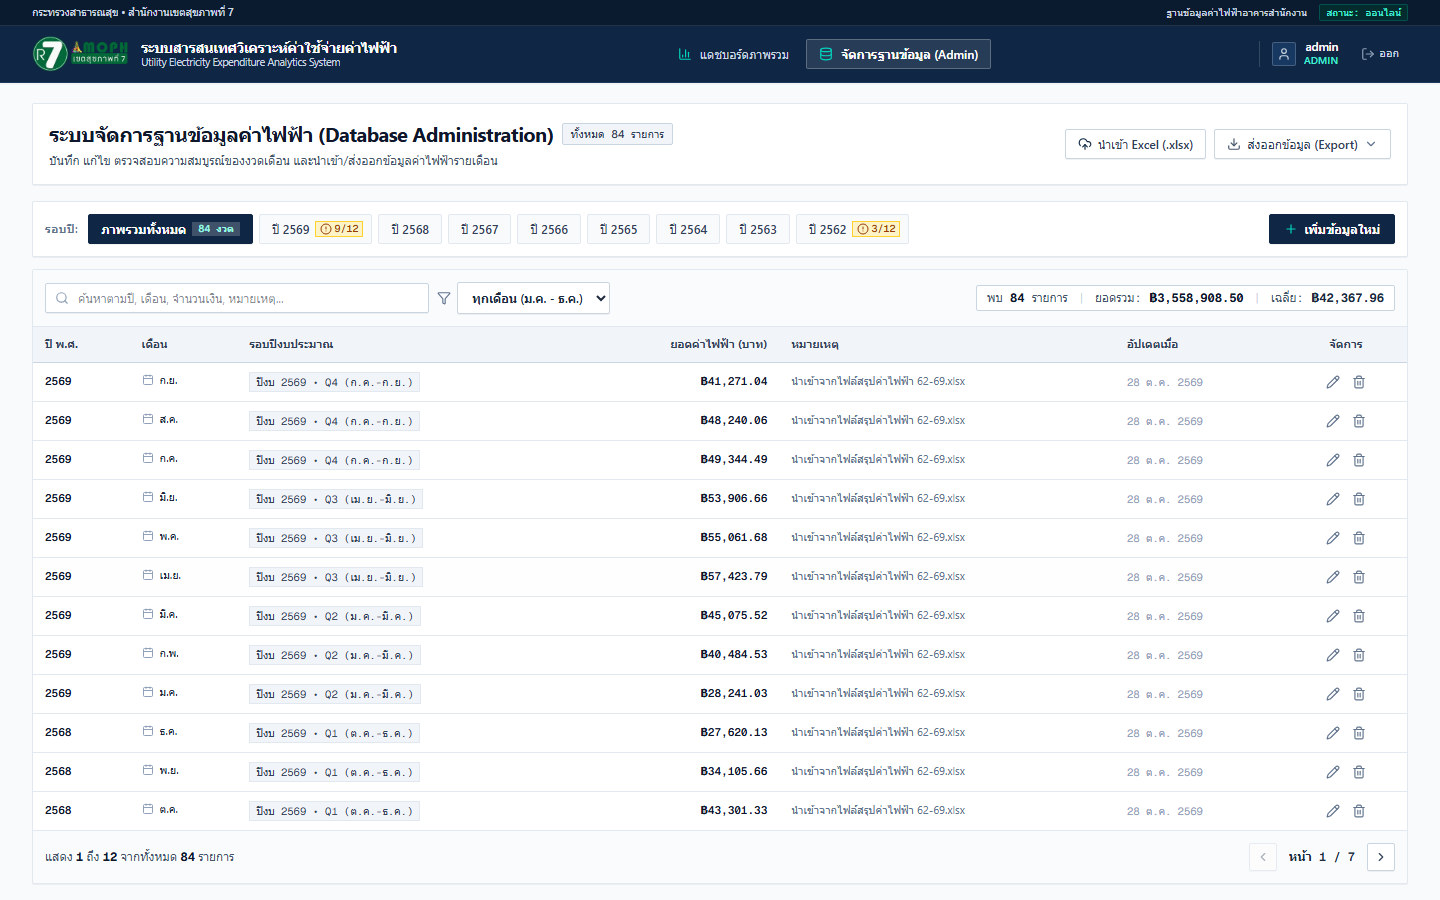
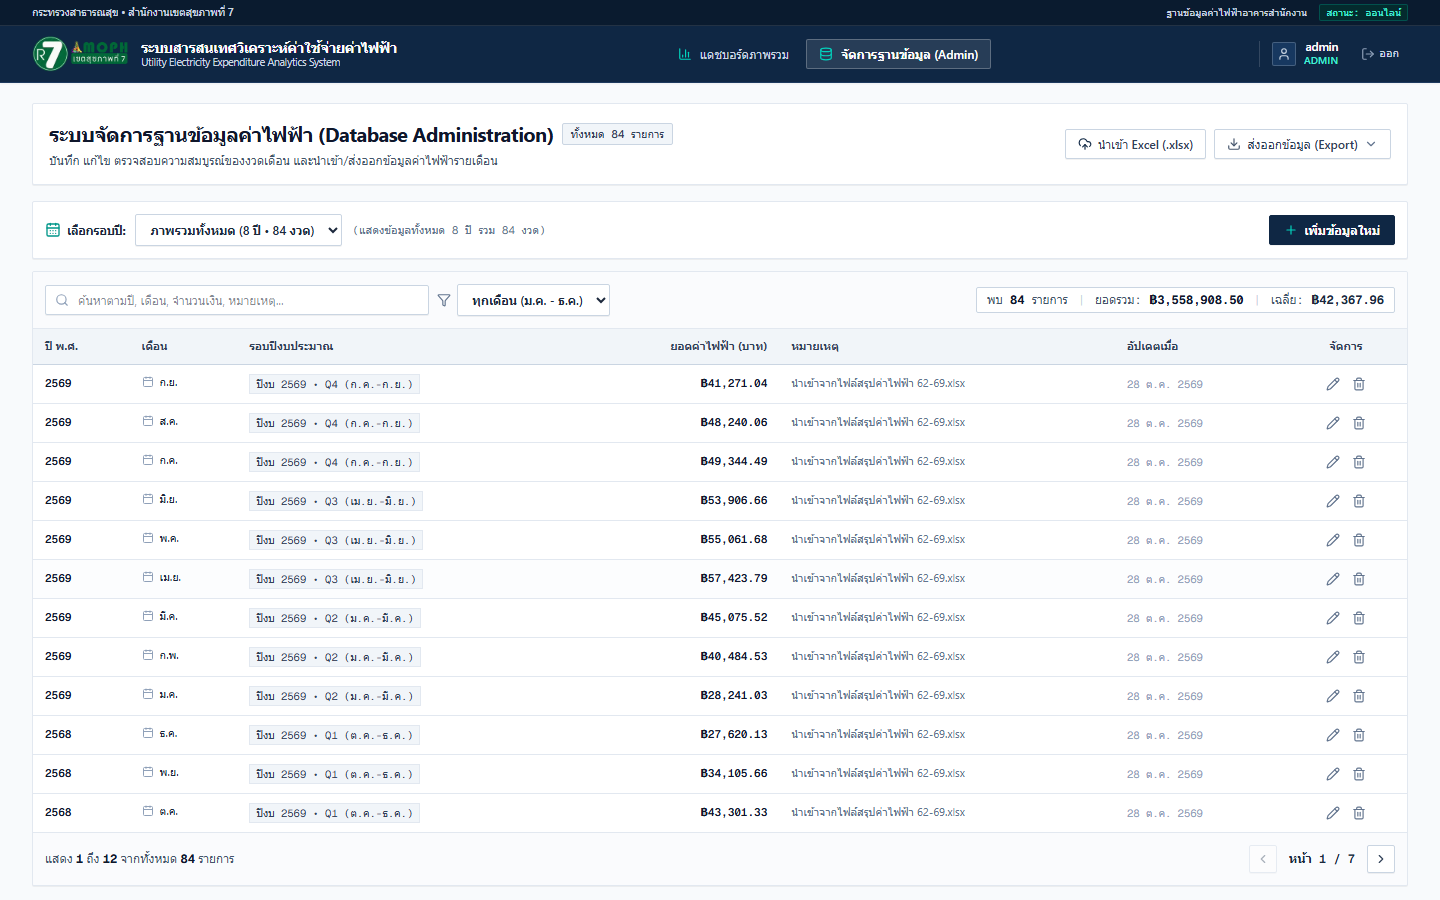
feat(admin): replace year pills with unified dropdown matching dashboard style

diff --git a/components/admin/records/records-year-pills.tsx b/components/admin/records/records-year-pills.tsx
@@ -1,216 +1,125 @@
 'use client';
 
-import { RefObject } from 'react';
-import { AlertCircle, Plus, X } from 'lucide-react';
+import { CalendarDays, Plus, RotateCcw, AlertCircle, Filter } from 'lucide-react';
 import { THAI_MONTHS } from '@/lib/validations/record';
-import { getFiscalYear } from '@/lib/utils/math';
 import type { YearCompletenessInfo } from './records-types';
 
 interface RecordsYearPillsProps {
-  pillsRef: RefObject<HTMLDivElement | null>;
+  pillsRef?: React.RefObject<HTMLDivElement | null>;
   totalRecordsCount: number;
   distinctYears: number[];
   selectedYear: string;
   onSelectYear: (year: string) => void;
   yearCompletenessMap: Map<number, YearCompletenessInfo>;
-  dismissedYears: number[];
-  activePopoverYear: number | null;
-  setActivePopoverYear: (year: number | null) => void;
-  onDismiss: (year: number) => void;
-  onRestoreDismissed: () => void;
+  dismissedYears?: number[];
+  activePopoverYear?: number | null;
+  setActivePopoverYear?: (year: number | null) => void;
+  onDismiss?: (year: number) => void;
+  onRestoreDismissed?: () => void;
   onOpenCreate: (year?: number, month?: number) => void;
 }
 
 export function RecordsYearPills({
-  pillsRef,
   totalRecordsCount,
   distinctYears,
   selectedYear,
   onSelectYear,
   yearCompletenessMap,
-  dismissedYears,
-  activePopoverYear,
-  setActivePopoverYear,
-  onDismiss,
-  onRestoreDismissed,
   onOpenCreate,
 }: RecordsYearPillsProps) {
+  const selectedInfo = selectedYear !== 'all' ? yearCompletenessMap.get(Number(selectedYear)) : null;
+  const isIncomplete = selectedInfo && !selectedInfo.isComplete;
+
   return (
-    <div
-      ref={pillsRef}
-      className="bg-white border border-slate-200 rounded-xs p-3 shadow-2xs flex flex-wrap items-center justify-between gap-3 relative overflow-visible"
-    >
-      <div className="flex items-center gap-1.5 flex-wrap">
-        <span className="text-[11px] font-semibold text-slate-500 uppercase tracking-wider mr-1 shrink-0">
-          รอบปี:
-        </span>
+    <div className="bg-white border border-slate-200 rounded-xs p-3 shadow-2xs">
+      <div className="flex flex-col sm:flex-row sm:items-center sm:justify-between gap-3">
+        {/* Left: Label, Dropdown, Status Badge */}
+        <div className="flex flex-wrap items-center gap-2.5">
+          <div className="flex items-center gap-1.5 text-slate-800">
+            <CalendarDays className="w-4 h-4 text-teal-600" />
+            <label htmlFor="admin-year-selector" className="text-xs font-bold tracking-tight text-slate-800">
+              เลือกรอบปี:
+            </label>
+          </div>
 
-        {/* All Years Pill */}
-        <button
-          type="button"
-          onClick={() => onSelectYear('all')}
-          className={`px-3 py-1.5 text-xs font-medium rounded-xs border transition-all whitespace-nowrap cursor-pointer flex items-center gap-1.5 shrink-0 ${
-            selectedYear === 'all'
-              ? 'bg-[#0f2744] text-white border-[#0f2744] font-semibold shadow-2xs'
-              : 'bg-slate-50 text-slate-700 border-slate-200 hover:bg-slate-100 hover:text-slate-900'
-          }`}
-        >
-          <span>ภาพรวมทั้งหมด</span>
-          <span
-            className={`px-1.5 py-0.2 rounded-2xs text-[10px] font-mono ${
-              selectedYear === 'all'
-                ? 'bg-white/20 text-teal-200'
-                : 'bg-slate-200/80 text-slate-600'
-            }`}
-          >
-            {totalRecordsCount} งวด
-          </span>
-        </button>
+          <div className="relative">
+            <select
+              id="admin-year-selector"
+              value={selectedYear}
+              onChange={(e) => onSelectYear(e.target.value)}
+              className="text-xs font-semibold border border-slate-300 hover:border-slate-400 bg-white text-slate-800 rounded-xs px-2.5 py-1.5 focus:outline-none focus:ring-2 focus:ring-[#0f2744] shadow-2xs cursor-pointer transition-colors"
+            >
+              <option value="all">
+                ภาพรวมทั้งหมด ({distinctYears.length} ปี • {totalRecordsCount} งวด)
+              </option>
+              {distinctYears.map((y) => {
+                const info = yearCompletenessMap.get(y);
+                const isComplete = info?.isComplete;
+                return (
+                  <option key={y} value={y.toString()}>
+                    ปี พ.ศ. {y} {isComplete ? '(ครบ 12 งวด)' : `(${info?.recordedCount || 0}/12 งวด)`}
+                  </option>
+                );
+              })}
+            </select>
+          </div>
 
-        {/* Specific Year Pills */}
-        {distinctYears.map((y) => {
-          const info = yearCompletenessMap.get(y);
-          const isSelected = selectedYear === y.toString();
-          const isIncomplete = info && !info.isComplete;
-          const isDismissed = dismissedYears.includes(y);
-          const showBadge = isIncomplete && !isDismissed;
-          const isPopoverOpen = activePopoverYear === y;
-
-          return (
-            <div key={y} className="relative inline-flex items-center">
-              <div
-                className={`inline-flex items-center rounded-xs text-xs font-medium border transition-all whitespace-nowrap shrink-0 ${
-                  isSelected
-                    ? 'bg-[#0f2744] text-white border-[#0f2744] font-semibold shadow-2xs'
-                    : 'bg-slate-50 text-slate-700 border-slate-200 hover:bg-slate-100 hover:text-slate-900'
-                }`}
-              >
+          {/* Status Badge */}
+          {selectedYear === 'all' ? (
+            <span className="text-[11px] text-slate-500 font-mono hidden md:inline-flex items-center gap-1">
+              (แสดงข้อมูลทั้งหมด {distinctYears.length} ปี รวม {totalRecordsCount} งวด)
+            </span>
+          ) : isIncomplete ? (
+            <div className="inline-flex items-center gap-2 text-[11px] text-amber-800 bg-amber-50 px-2 py-0.5 rounded-2xs border border-amber-300">
+              <span className="inline-flex items-center gap-1 font-semibold">
+                <AlertCircle className="w-3.5 h-3.5 text-amber-600 shrink-0" />
+                <span>
+                  ปี {selectedYear} ขาด {selectedInfo.missingMonths.length} เดือน (
+                  {selectedInfo.missingMonths.map((m) => THAI_MONTHS[m - 1]).join(', ')})
+                </span>
+              </span>
+              {selectedInfo.nextMissingMonth && (
                 <button
                   type="button"
-                  onClick={() => onSelectYear(y.toString())}
-                  className={`px-3 py-1.5 cursor-pointer flex items-center gap-1.5 ${showBadge ? 'pr-1' : ''}`}
+                  onClick={() => onOpenCreate(Number(selectedYear), selectedInfo.nextMissingMonth ?? undefined)}
+                  className="font-bold underline text-amber-900 hover:text-amber-950 cursor-pointer ml-1"
                 >
-                  <span>ปี {y}</span>
+                  + บันทึก {THAI_MONTHS[selectedInfo.nextMissingMonth - 1]}
                 </button>
-
-                {/* Warning Trigger */}
-                {showBadge && (
-                  <button
-                    type="button"
-                    onClick={(e) => {
-                      e.stopPropagation();
-                      setActivePopoverYear(isPopoverOpen ? null : y);
-                    }}
-                    onMouseEnter={() => setActivePopoverYear(y)}
-                    className={`py-1.5 pr-2 pl-0.5 transition-colors flex items-center cursor-pointer ${
-                      isSelected
-                        ? 'text-amber-300 hover:text-white'
-                        : 'text-amber-600 hover:text-amber-800'
-                    }`}
-                    title={`ปี ${y} ข้อมูลไม่ครบ 12 เดือน (คลิกดูรายละเอียด)`}
-                    aria-label={`ข้อมูลปี ${y} ไม่ครบ`}
-                  >
-                    <span
-                      className={`px-1 py-0.2 rounded-2xs text-[10px] font-mono flex items-center gap-0.5 ${
-                        isSelected
-                          ? 'bg-amber-400/20 text-amber-200 border border-amber-300/30'
-                          : 'bg-amber-100 text-amber-800 border border-amber-300'
-                      }`}
-                    >
-                      <AlertCircle className="w-3 h-3" />
-                      <span>{info?.recordedCount}/12</span>
-                    </span>
-                  </button>
-                )}
-              </div>
-
-              {/* Popover */}
-              {isPopoverOpen && info && (
-                <div
-                  onMouseEnter={() => setActivePopoverYear(y)}
-                  onMouseLeave={() => setActivePopoverYear(null)}
-                  className="absolute left-1/2 -translate-x-1/2 top-full mt-1.5 w-72 bg-white text-slate-900 rounded-xs p-3 shadow-lg border border-slate-300 z-50 text-left"
-                >
-                  <div className="flex items-center justify-between pb-1.5 border-b border-slate-200">
-                    <div className="flex items-center gap-1.5 text-amber-800 font-semibold text-xs">
-                      <AlertCircle className="w-3.5 h-3.5 shrink-0" />
-                      <span>ปี {y} ขาด {info.missingMonths.length} เดือน</span>
-                    </div>
-                    <button
-                      type="button"
-                      onClick={(e) => {
-                        e.stopPropagation();
-                        onDismiss(y);
-                      }}
-                      className="text-[10px] text-slate-400 hover:text-slate-700 px-1 py-0.5 rounded-xs hover:bg-slate-100 font-medium transition-colors flex items-center gap-0.5 cursor-pointer"
-                      title="ซ่อนการแจ้งเตือนของปีนี้"
-                    >
-                      <X className="w-3 h-3" /> ซ่อน
-                    </button>
-                  </div>
-
-                  <div className="py-2 text-[11px] text-slate-600 space-y-1">
-                    <p>
-                      สถานะ: บันทึกแล้ว <strong className="text-slate-900 font-mono">{info.recordedCount}/12</strong> เดือน
-                    </p>
-                    <p>
-                      ยังขาด:{' '}
-                      <span className="text-amber-800 font-medium">
-                        {info.missingMonths.map((m) => THAI_MONTHS[m - 1]).join(', ')}
-                      </span>
-                    </p>
-                    {info.recordedMonthsList && info.recordedMonthsList.length > 0 && (
-                      <p className="text-[10px] text-teal-800 bg-teal-50 p-1.5 rounded-2xs border border-teal-200">
-                        ℹ ข้อมูลที่บันทึก ({info.recordedCount} เดือน) สอดคล้องกับ{' '}
-                        {Array.from(new Set(info.recordedMonthsList.map((m) => getFiscalYear(y, m))))
-                          .map((fy) => `ปีงบประมาณ ${fy}`)
-                          .join(' และ ')}
-                      </p>
-                    )}
-                  </div>
-
-                  {info.nextMissingMonth && (
-                    <div className="pt-2 border-t border-slate-200 flex justify-end">
-                      <button
-                        type="button"
-                        onClick={(e) => {
-                          e.stopPropagation();
-                          setActivePopoverYear(null);
-                          onOpenCreate(y, info.nextMissingMonth!);
-                        }}
-                        className="inline-flex items-center gap-1.5 px-2.5 py-1 text-[11px] font-semibold text-white bg-[#0f2744] hover:bg-[#1e3a5f] border border-[#0f2744] rounded-xs transition-colors shadow-2xs cursor-pointer focus-visible:outline-none focus-visible:ring-2 focus-visible:ring-[#0f2744]"
-                      >
-                        <Plus className="w-3 h-3" />
-                        บันทึก {THAI_MONTHS[info.nextMissingMonth - 1]}
-                      </button>
-                    </div>
-                  )}
-                </div>
               )}
             </div>
-          );
-        })}
+          ) : (
+            <span className="inline-flex items-center gap-1 text-[11px] text-teal-800 font-semibold bg-teal-50 px-2 py-0.5 rounded-2xs border border-teal-200">
+              <Filter className="w-3 h-3 text-teal-600" />
+              <span>กำลังจัดการข้อมูล: ปี พ.ศ. {selectedYear} (ครบ 12 เดือน)</span>
+            </span>
+          )}
+        </div>
 
-        {dismissedYears.length > 0 && (
+        {/* Right: Reset Action & Add Record Button */}
+        <div className="flex items-center gap-2 self-start sm:self-auto shrink-0">
+          {selectedYear !== 'all' && (
+            <button
+              onClick={() => onSelectYear('all')}
+              type="button"
+              className="inline-flex items-center gap-1.5 px-2.5 py-1.5 text-xs font-medium text-slate-700 bg-white hover:bg-slate-50 hover:text-slate-900 border border-slate-300 hover:border-slate-400 rounded-xs shadow-2xs transition-colors cursor-pointer focus-visible:outline-none focus-visible:ring-2 focus-visible:ring-[#0f2744]"
+              title="แสดงข้อมูลทุกปีทั้งหมด"
+            >
+              <RotateCcw className="w-3 h-3 text-slate-500" />
+              <span>ล้างตัวกรอง (ดูภาพรวม)</span>
+            </button>
+          )}
+
           <button
             type="button"
-            onClick={onRestoreDismissed}
-            className="inline-flex items-center gap-1 px-2 py-1 text-[11px] font-medium text-slate-600 hover:text-slate-900 hover:bg-slate-100 rounded-xs border border-slate-300 transition-colors ml-1 cursor-pointer"
-            title="แสดงการแจ้งเตือนที่เคยถูกซ่อนไว้ทั้งหมด"
+            onClick={() => onOpenCreate()}
+            className="inline-flex items-center gap-1.5 px-3.5 py-1.5 text-xs font-semibold text-white bg-[#0f2744] hover:bg-[#1e3a5f] border border-[#0f2744] rounded-xs shadow-2xs transition-colors cursor-pointer focus-visible:outline-none focus-visible:ring-2 focus-visible:ring-[#0f2744]"
           >
-            แสดงเตือน ({dismissedYears.length})
+            <Plus className="w-3.5 h-3.5 text-teal-400" />
+            <span>เพิ่มข้อมูลใหม่</span>
           </button>
-        )}
+        </div>
       </div>
-
-      <button
-        type="button"
-        onClick={() => onOpenCreate()}
-        className="inline-flex items-center gap-1.5 px-3.5 py-1.5 text-xs font-semibold text-white bg-[#0f2744] hover:bg-[#1e3a5f] border border-[#0f2744] rounded-xs shadow-2xs transition-colors shrink-0 cursor-pointer focus-visible:outline-none focus-visible:ring-2 focus-visible:ring-[#0f2744]"
-      >
-        <Plus className="w-3.5 h-3.5 text-teal-400" />
-        <span>เพิ่มข้อมูลใหม่</span>
-      </button>
     </div>
   );
 }
